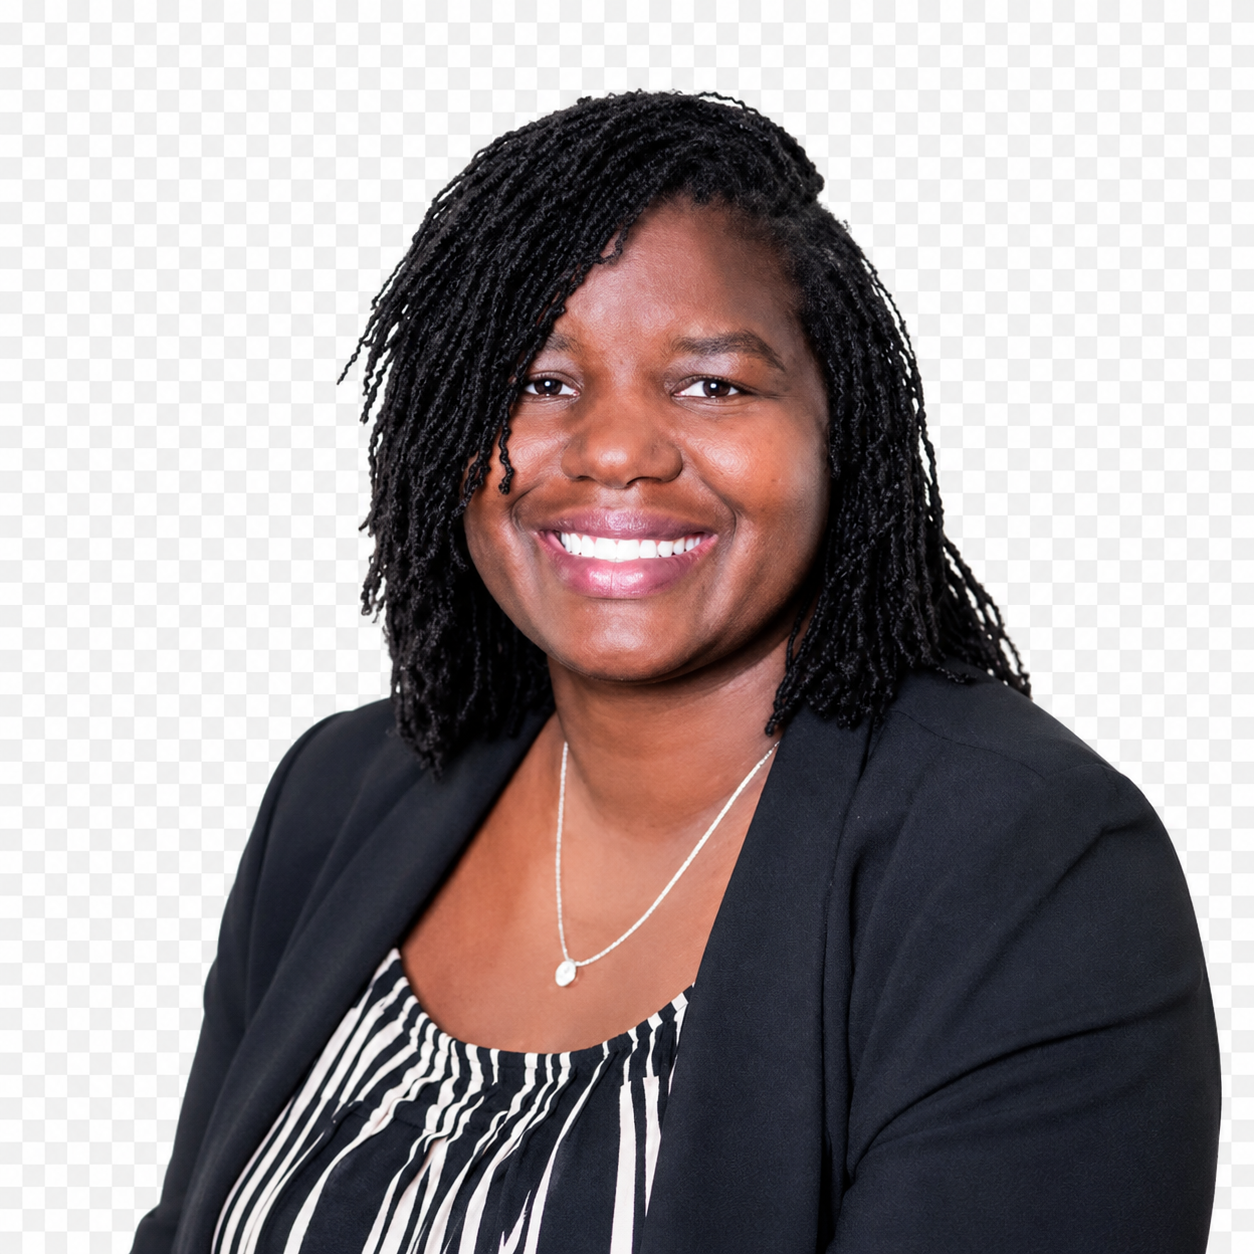
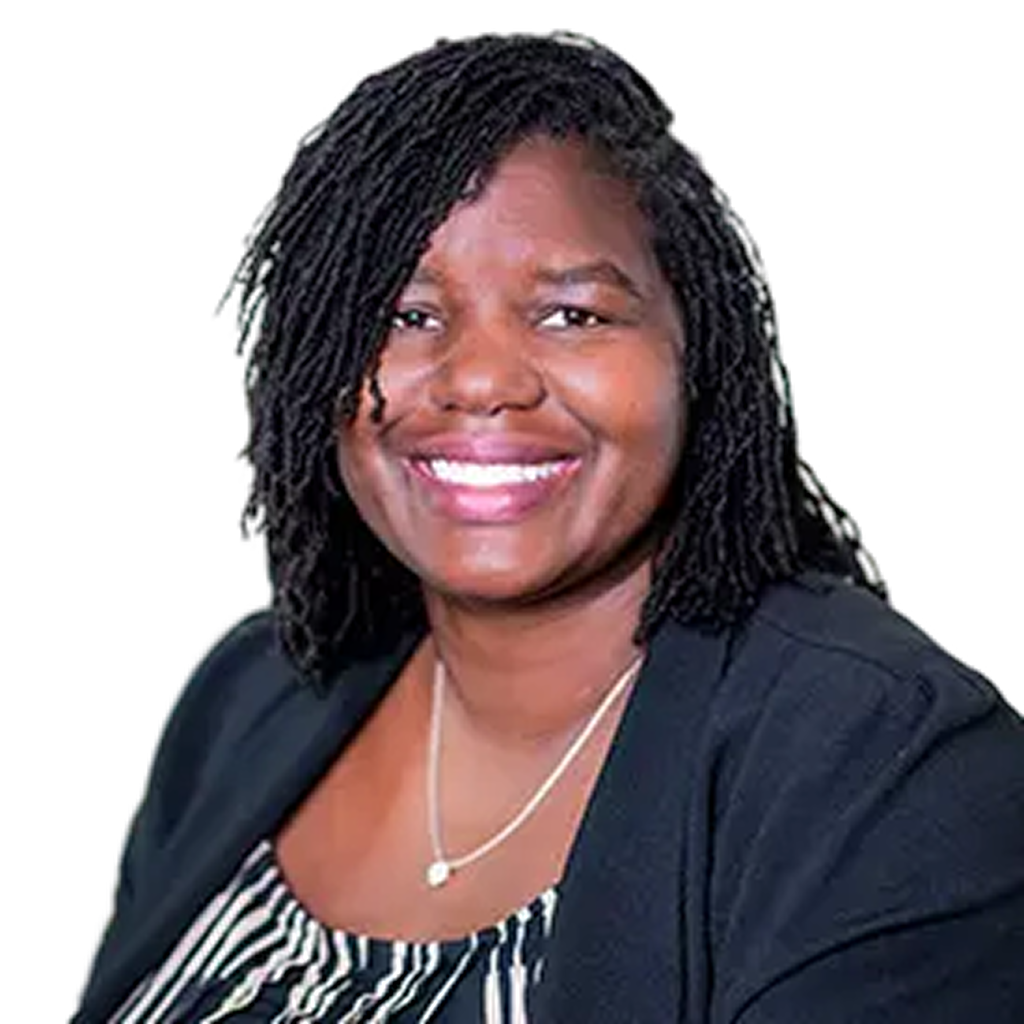
chore: swap Tiana portrait, simplify mentor card image rendering
- Replace Tiana's photo with the final cutout portrait (1024x1024)
- Drop the blurred-backdrop dual-Image layer in favor of a single
  Image on a clean bg-zinc-100 background, which renders cutout
  portraits more cleanly than blurring transparency

diff --git a/src/app/(app)/dashboard/page.tsx b/src/app/(app)/dashboard/page.tsx
@@ -53,23 +53,15 @@ function MentorCard({ mentor, index }: { mentor: Mentor; index: number }) {
 
   return (
     <div className="group flex flex-col overflow-hidden rounded-xl border border-border bg-card transition-all duration-200 hover:-translate-y-1 hover:shadow-xl">
-      <div className={`relative flex h-48 sm:h-64 md:h-[300px] items-end overflow-hidden ${mentorImage ? "bg-muted" : `bg-gradient-to-b ${gradient}`}`}>
+      <div className={`relative flex h-48 sm:h-64 md:h-[300px] items-end overflow-hidden ${mentorImage ? "bg-zinc-100" : `bg-gradient-to-b ${gradient}`}`}>
         {mentorImage ? (
-          <>
-            <Image
-              src={mentorImage}
-              alt=""
-              aria-hidden
-              fill
-              className="scale-125 object-cover blur-2xl opacity-60"
-            />
-            <Image
-              src={mentorImage}
-              alt={mentor.name}
-              fill
-              className="relative object-contain"
-            />
-          </>
+          <Image
+            src={mentorImage}
+            alt={mentor.name}
+            fill
+            sizes="(min-width: 640px) 50vw, 100vw"
+            className="object-contain"
+          />
         ) : (
           <div className="absolute inset-0 flex items-center justify-center">
             <span className="text-6xl font-bold text-white/20">